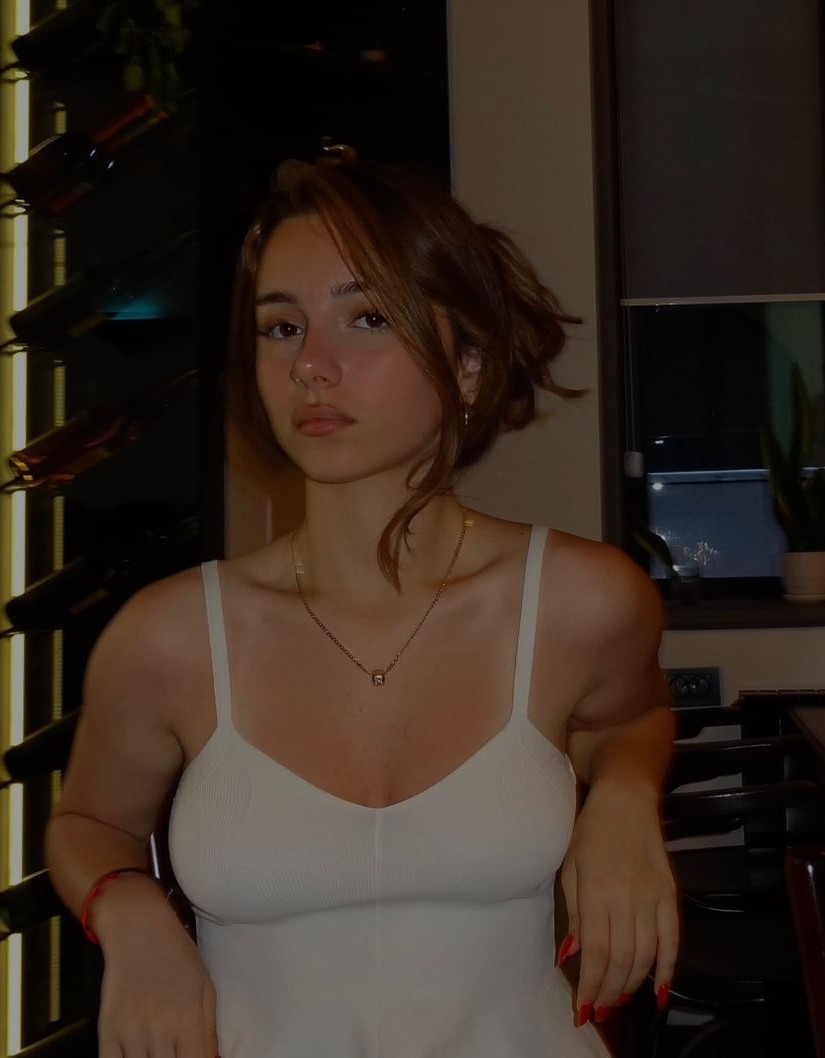
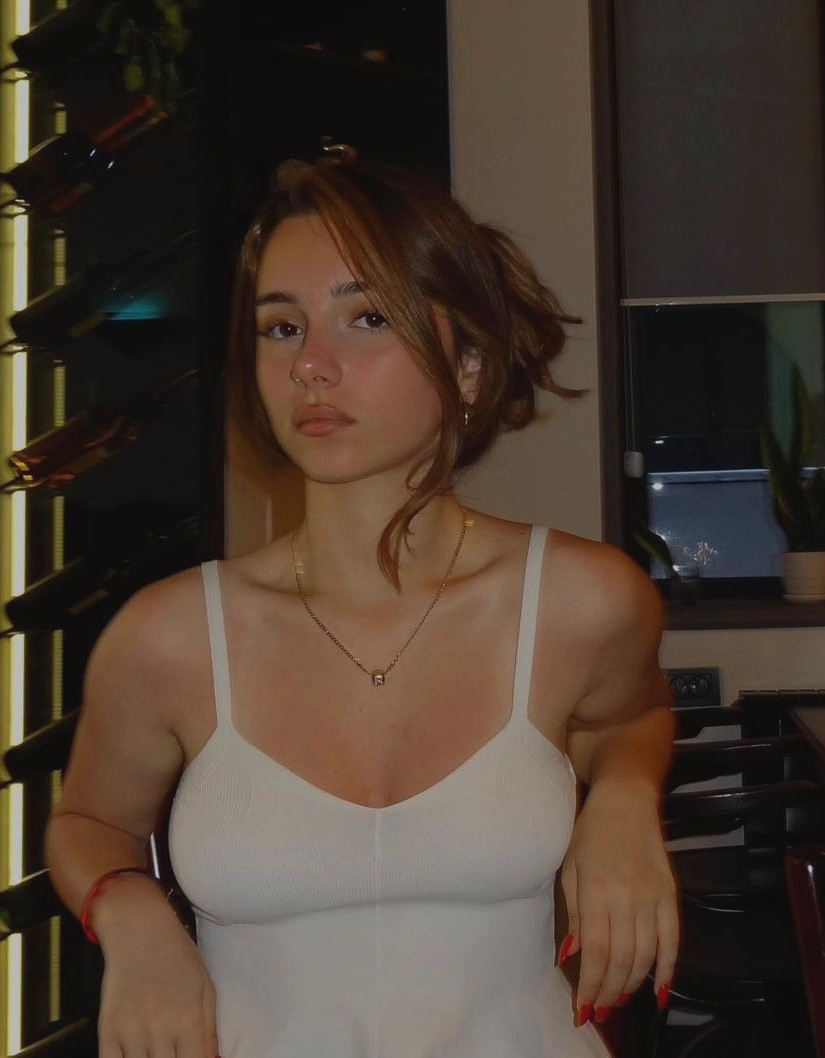
Remove remaining em dashes from How It Works, brighten Nino's preview photo, and update Laura Jaeschke's portfolio photos

diff --git a/index.html b/index.html
@@ -758,17 +758,17 @@
       <div class="step">
         <div class="step-num mono" data-i18n="process.step1.num">01 / Inquire</div>
         <h3 data-i18n="process.step1.title">Tell us the brief</h3>
-        <p data-i18n="process.step1.body">Reach out with your brand, the niche, and the campaign timeline — no account or form needed, just an email.</p>
+        <p data-i18n="process.step1.body">Reach out with your brand, the niche, and the campaign timeline. No account or form needed, just an email.</p>
       </div>
       <div class="step">
         <div class="step-num mono" data-i18n="process.step2.num">02 / Match &amp; Brief</div>
         <h3 data-i18n="process.step2.title">We handle the creator</h3>
-        <p data-i18n="process.step2.body">CBX matches a creator from the roster and briefs them for your market — all contact, including social media, runs through us, not directly to the creator.</p>
+        <p data-i18n="process.step2.body">CBX matches a creator from the roster and briefs them for your market. All contact, including social media, runs through us, not directly to the creator.</p>
       </div>
       <div class="step">
         <div class="step-num mono" data-i18n="process.step3.num">03 / Receive Content</div>
         <h3 data-i18n="process.step3.title">Content, delivered</h3>
-        <p data-i18n="process.step3.body">The creator delivers on the agreed timeline, ready for your own page or campaign — no additional posting on their end.</p>
+        <p data-i18n="process.step3.body">The creator delivers on the agreed timeline, ready for your own page or campaign. No additional posting on their end.</p>
       </div>
     </div>
   </section>
@@ -967,12 +967,12 @@
         'bio.nino':"UGC creator from Georgia focused on beauty, skincare, makeup, fashion, and interior and home content, with a knack for stepping fully into the target audience's world. Every piece is built to earn trust first and drive sales as a result.",
         'cta.inquire':'Inquire →',
         'process.eyebrow':'How It Works','process.heading':'From inquiry to campaign-ready content.',
-        'process.step1.num':'01 / Inquire','process.step1.title':'Tell us the brief','process.step1.body':'Reach out with your brand, the niche, and the campaign timeline — no account needed, just an email.',
+        'process.step1.num':'01 / Inquire','process.step1.title':'Tell us the brief','process.step1.body':'Reach out with your brand, the niche, and the campaign timeline. No account needed, just an email.',
         'contact.eyebrow':'Start Here','contact.heading':'Tell us who you need.','contact.fieldCreator':'Creator','contact.fieldEmail':'Your Email','contact.placeholderEmail':'you@brand.com','contact.fieldMessage':'What do you need this creator for?',
         'contact.optGeneral':'General Inquiry',
         'contact.placeholder':'Your brand, the campaign, and the timeline...','contact.send':'Send Inquiry →','contact.note':'We usually reply within 1–2 business days.',
-        'process.step2.num':'02 / Match & Brief','process.step2.title':'We handle the creator','process.step2.body':'CBX matches a creator from the roster and briefs them for your market — all contact, including social media, runs through us, not directly to the creator.',
-        'process.step3.num':'03 / Receive Content','process.step3.title':'Content, delivered','process.step3.body':'The creator delivers on the agreed timeline, ready for your own page or campaign — no additional posting on their end.',
+        'process.step2.num':'02 / Match & Brief','process.step2.title':'We handle the creator','process.step2.body':'CBX matches a creator from the roster and briefs them for your market. All contact, including social media, runs through us, not directly to the creator.',
+        'process.step3.num':'03 / Receive Content','process.step3.title':'Content, delivered','process.step3.body':'The creator delivers on the agreed timeline, ready for your own page or campaign. No additional posting on their end.',
         'footer.eyebrow':'Ready to brief a creator?','footer.heading':"Let's talk.",'footer.copyright':'© 2026 CBX Agency — All rights reserved','footer.germany':'Germany',
         'lang.aria':'Switch language','theme.aria':'Switch color theme'
       },
@@ -995,12 +995,12 @@
         'bio.nino':'来自格鲁吉亚的UGC达人,专注美妆、护肤、彩妆、时尚与家居内容,擅长完全代入目标受众的视角。每一支内容都以建立信任为先,进而促成转化。',
         'cta.inquire':'立即咨询 →',
         'process.eyebrow':'合作流程','process.heading':'从咨询到交付,内容即刻可用。',
-        'process.step1.num':'01 / 咨询','process.step1.title':'告诉我们你的需求','process.step1.body':'发一封邮件告诉我们你的品牌、赛道和活动时间线 —— 无需注册账号。',
+        'process.step1.num':'01 / 咨询','process.step1.title':'告诉我们你的需求','process.step1.body':'发一封邮件告诉我们你的品牌、赛道和活动时间线。无需注册账号。',
         'contact.eyebrow':'立即开始','contact.heading':'告诉我们你需要哪位达人。','contact.fieldCreator':'达人','contact.fieldEmail':'你的邮箱','contact.placeholderEmail':'you@brand.com','contact.fieldMessage':'这次合作是为了哪位达人?',
         'contact.optGeneral':'一般咨询',
         'contact.placeholder':'你的品牌、活动内容和时间线……','contact.send':'发送咨询 →','contact.note':'我们通常会在 1-2 个工作日内回复。',
-        'process.step2.num':'02 / 匹配与对接','process.step2.title':'我们负责对接达人','process.step2.body':'CBX从达人库中匹配合适人选,并针对你的市场进行对接说明 —— 包括社交媒体在内的所有沟通均由我们负责,不会直接联系达人本人。',
-        'process.step3.num':'03 / 交付内容','process.step3.title':'内容按时交付','process.step3.body':'达人按约定时间交付内容,可直接用于你自己的主页或广告投放 —— 达人本人无需额外发布。',
+        'process.step2.num':'02 / 匹配与对接','process.step2.title':'我们负责对接达人','process.step2.body':'CBX从达人库中匹配合适人选,并针对你的市场进行对接说明。包括社交媒体在内的所有沟通均由我们负责,不会直接联系达人本人。',
+        'process.step3.num':'03 / 交付内容','process.step3.title':'内容按时交付','process.step3.body':'达人按约定时间交付内容,可直接用于你自己的主页或广告投放。达人本人无需额外发布。',
         'footer.eyebrow':'准备好对接达人了吗?','footer.heading':'联系我们。','footer.copyright':'© 2026 CBX Agency — 保留所有权利','footer.germany':'德国',
         'lang.aria':'切换语言','theme.aria':'切换主题'
       }
